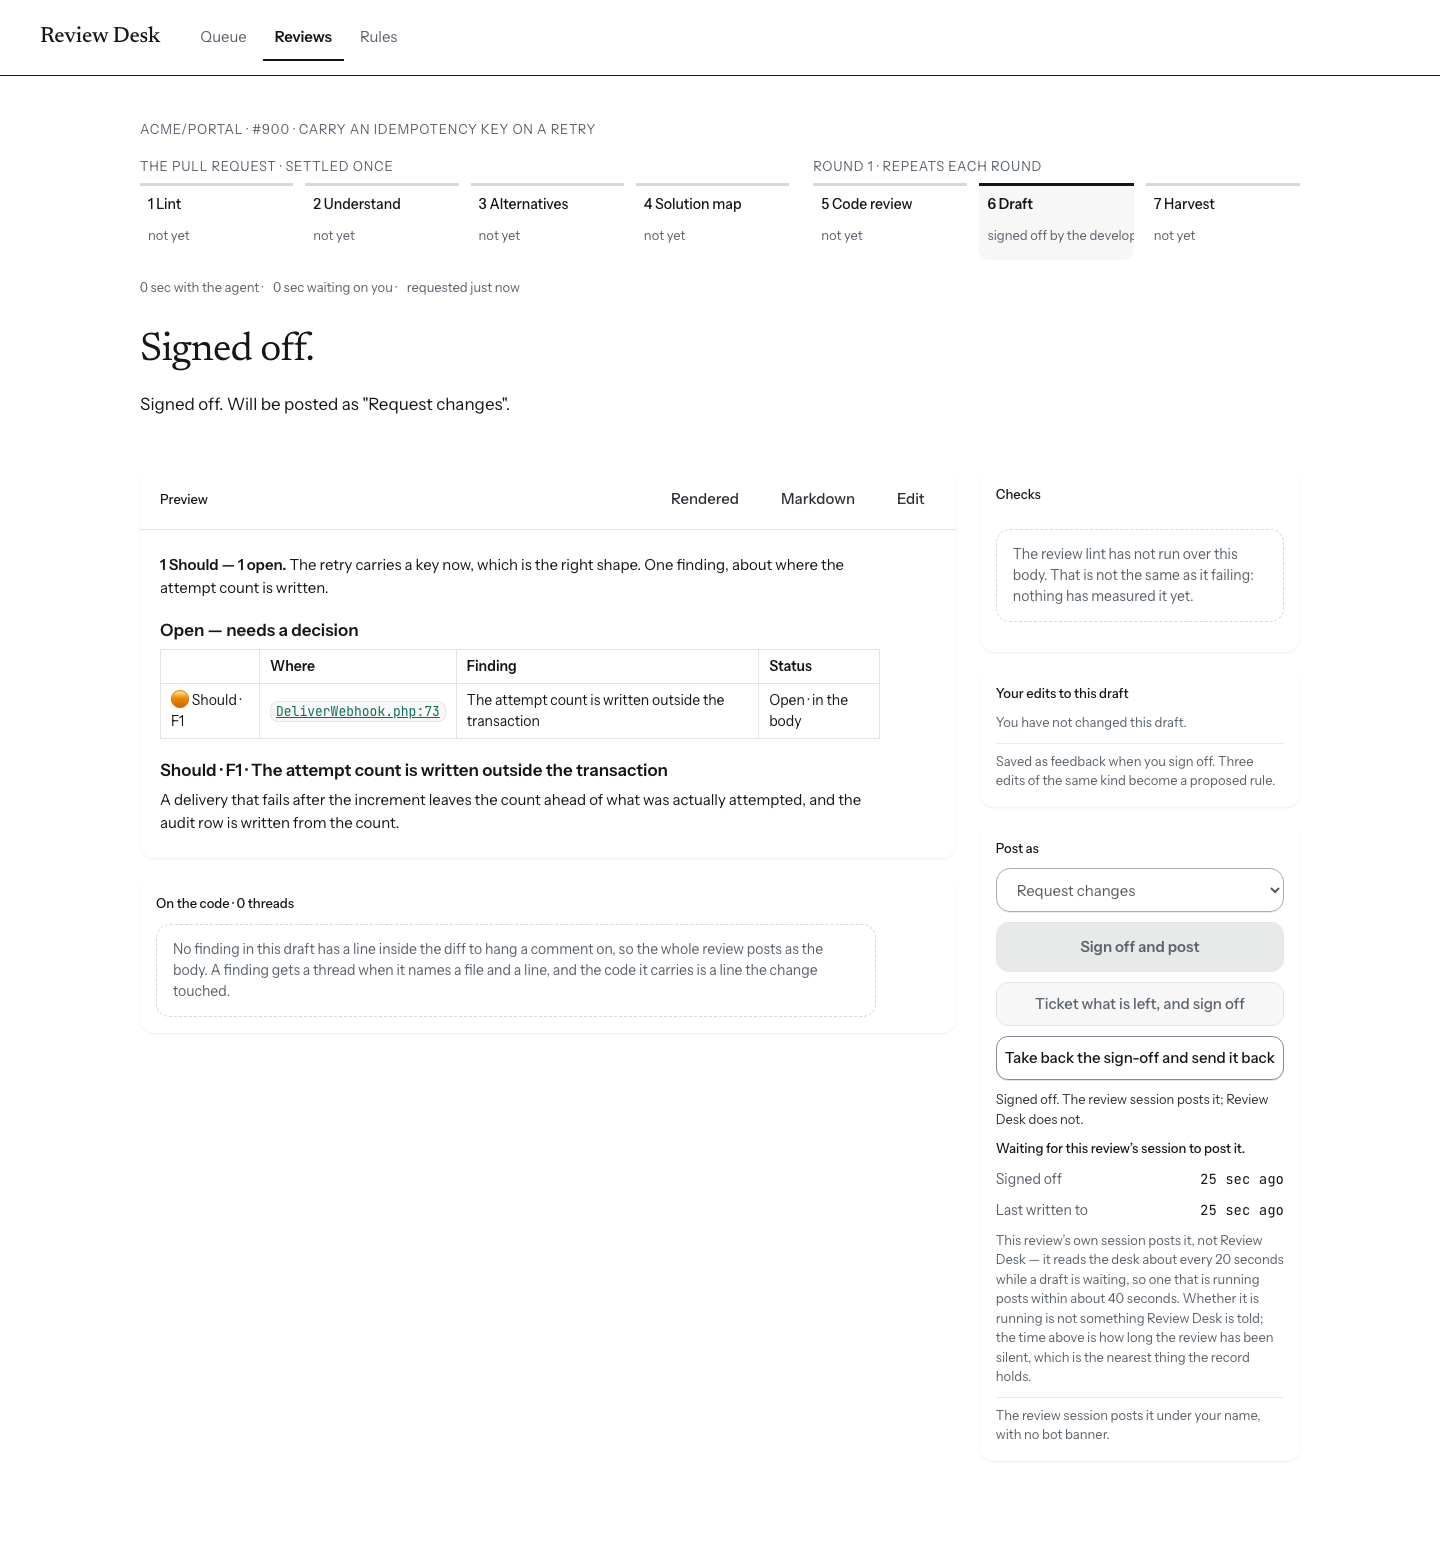
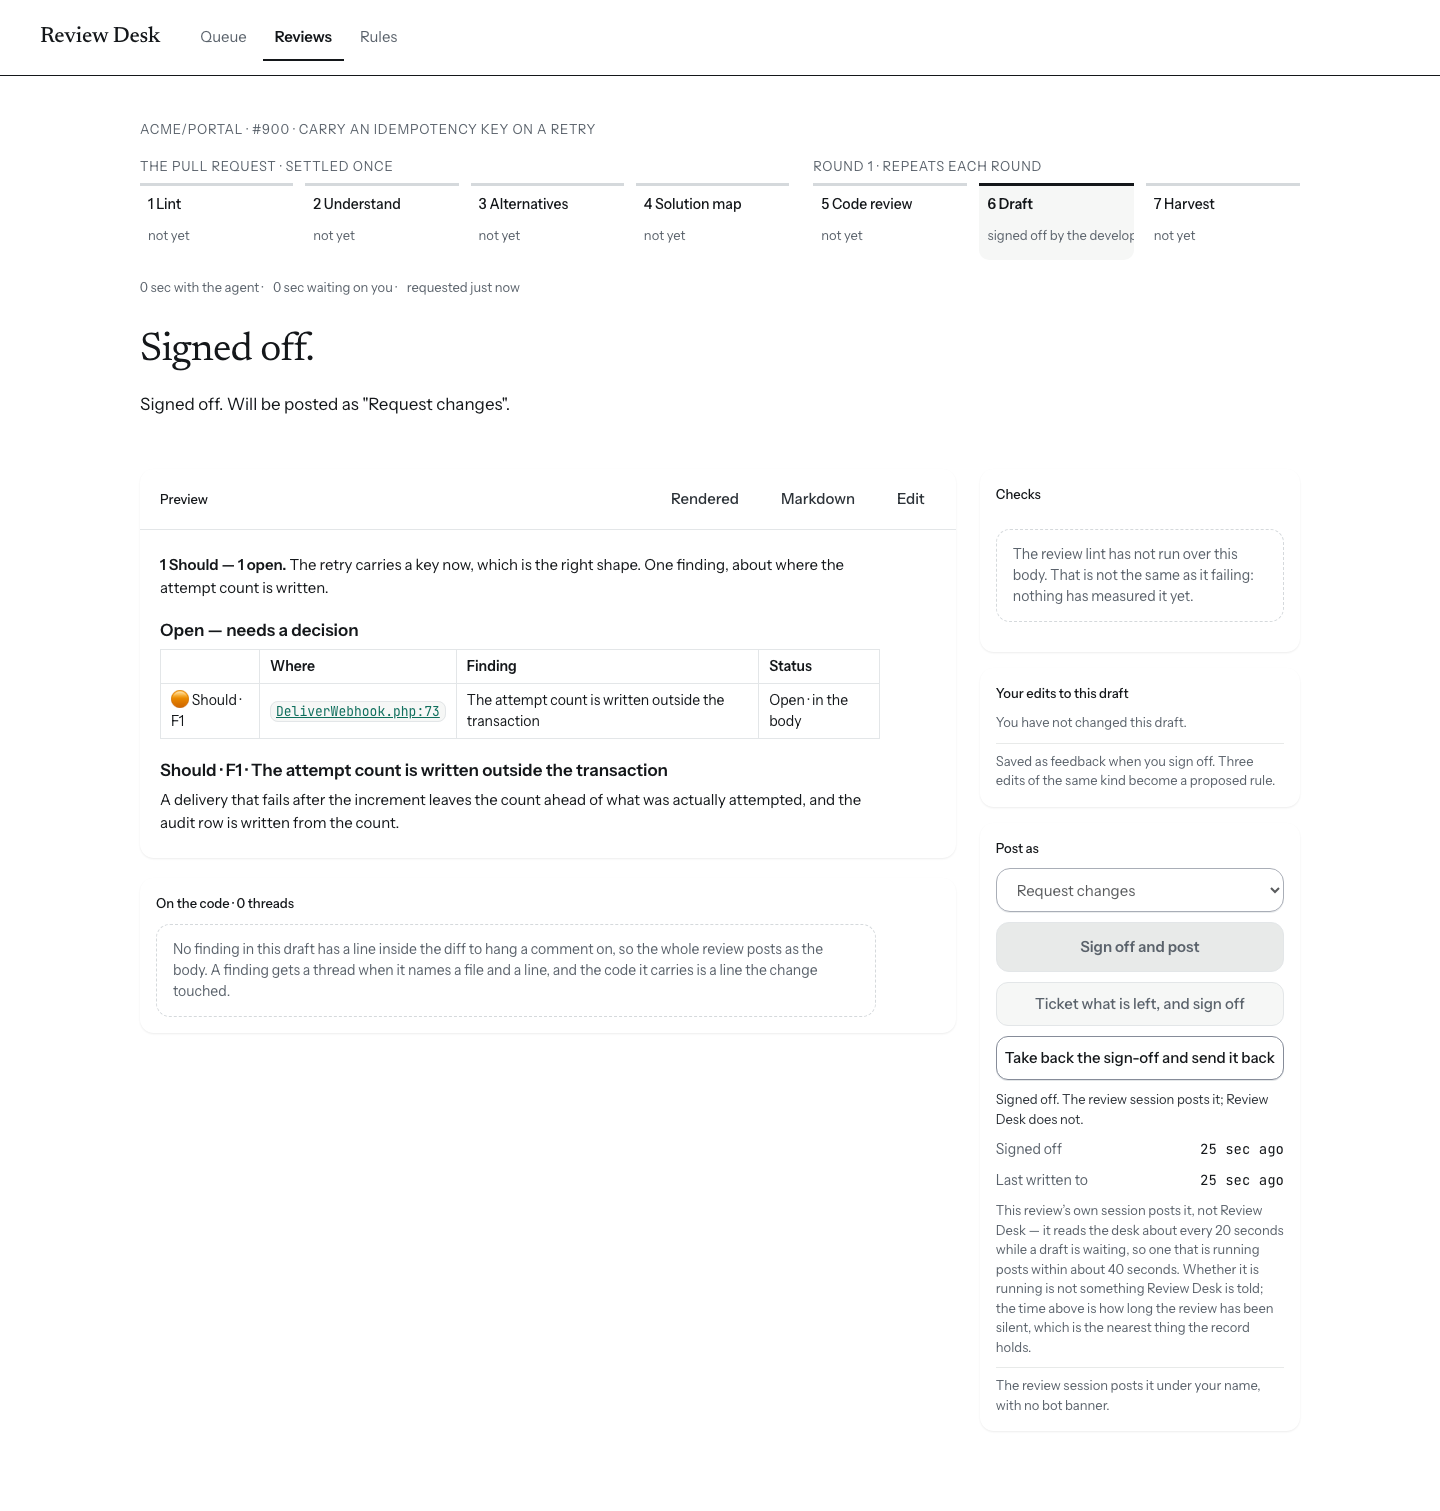
The worst sentence this page could say, and it could say it [DEV-932]
**Stop `review-desk serve` ten seconds after a sign-off and the page accused
the review session.** A failed read leaves the last good answer on screen —
that is what `resource()` and `DeskState` are for — so the props still said
`approved` however long the server had been gone, while the clock kept
moving. At forty seconds the panel said "nothing has reported it posted in
the 40 sec since you signed off, so the session may not be running. Check the
session that was reviewing this", directly underneath a notice saying Review
Desk was not answering. Review Desk accusing Locus of being down because
Review Desk is down, and sending the developer to the wrong system.

One sentence on this page depends on the record being current rather than
merely present, and it is the one that sends somebody somewhere. It is gated
on that now. The reads carry on while they fail, because that is how the page
recovers, and the sentence comes back the moment one answers and the draft is
still unposted. One window is left and is named in the file: coming back to a
tab hidden across the posting moves the clock before the read it asks for has
answered, so the accusation can render for one round trip — milliseconds on
loopback, and the read closes it.

**And the long wait said its diagnosis twice.** The live region is drawn
whatever the status, and `rd-visually-hidden` only applied while it was empty
— so once it had something to say, "Nothing has reported it posted. The
[…]

diff --git a/web/app/components/PostingWatch.vue b/web/app/components/PostingWatch.vue
@@ -39,6 +39,19 @@ const props = defineProps<{
   lastActivityAt: Instant | null | undefined
   /** `DraftDetail.body_is_stale`: the one signed-off state no session can post. */
   bodyIsStale: boolean
+  /**
+   * Whether the page's last read of this review answered.
+   *
+   * **Only one sentence here depends on it, and it is the one that sends somebody
+   * somewhere.** A failed read leaves the last good answer on screen — `resource()` keeps
+   * it and `DeskState` draws the refusal over the top — so the props still say `approved`
+   * however long the server has been gone, and the clock keeps moving. Without this the
+   * page would say "nothing has reported it posted in the 4 min since you signed off, so
+   * the session may not be running" about a session that is posting away happily, while
+   * the thing it cannot reach is its own server two lines above. Review Desk accusing
+   * Locus of being down because Review Desk is down is the worst sentence on the page.
+   */
+  recordIsCurrent: boolean
 }>()
 
 /** Read the review and its draft again. The page owns the reads; this only asks. */
@@ -200,9 +213,21 @@ const sinceSignOff = computed(() => secondsSince(props.draft.approved_at, now.va
  * reading is at most a second ahead of the stamp and never behind it. A build that ever
  * served this page from another machine would need a reference instant on the wire before
  * this sentence could be trusted.
+ *
+ * **And it needs the record to be current, not merely old.** `recordIsCurrent` is the
+ * other half: a clock that keeps moving over a record that has stopped arriving is the
+ * same false accusation by a different route.
+ *
+ * One window is left, and it is bounded: coming back to a tab hidden across the posting
+ * moves the clock before the read it asks for has answered, so the accusation can render
+ * for one round trip. On loopback that is milliseconds and the read closes it. Closing it
+ * properly would mean holding the clock back until a read lands, which costs the thing
+ * that return was for — being current the moment you look.
  */
 const late = computed(
-  () => waiting.value && (sinceSignOff.value ?? 0) >= POSTED_WITHIN_SECONDS,
+  () => waiting.value
+    && props.recordIsCurrent
+    && (sinceSignOff.value ?? 0) >= POSTED_WITHIN_SECONDS,
 )
 
 /**
@@ -351,10 +376,16 @@ const noAnchorSentence = computed(
       empty, so that it is in the page before there is anything to announce. `role="status"`
       is polite and moves nothing: the developer who pressed the button keeps the focus they
       had, which is what makes this readable rather than an interruption.
+
+      **Always hidden, too, because announcing and printing are different jobs.** Drawn, it
+      said the long wait's diagnosis in bold and the paragraph four lines below said it
+      again — "nothing has reported it posted … may not be running", twice in one card, in
+      a picture this branch committed. What a sighted reader needs is here already: the
+      heading, the figures and the sentence under them. What a screen reader needs is to be
+      told when that changed, which is all this is now.
     -->
     <p
-      class="said"
-      :class="{ 'rd-visually-hidden': announcement.length === 0 }"
+      class="rd-visually-hidden"
       role="status"
     >
       {{ announcement }}
@@ -439,19 +470,6 @@ const noAnchorSentence = computed(
  */
 .watch {
   display: contents;
-}
-
-/*
- * The live region. **Not `display: none` while it is empty, however tempting**: a region
- * out of the accessibility tree until the moment it has something to say is a region a
- * screen reader may never announce. `rd-visually-hidden` is the desk's own way of saying
- * that — in the tree, out of the layout — and `contents` above only works because of it,
- * since an empty paragraph is a flex child like any other.
- */
-.said {
-  margin: 0;
-  font-size: 13px;
-  font-weight: 500;
 }
 
 .who,

diff --git a/web/test/posting-watch.nuxt.spec.ts b/web/test/posting-watch.nuxt.spec.ts
@@ -65,6 +65,7 @@ interface Props {
   review: Review
   lastActivityAt: Instant | null | undefined
   bodyIsStale: boolean
+  recordIsCurrent: boolean
 }
 
 function props(over: Partial<Props> = {}): Props {
@@ -73,6 +74,7 @@ function props(over: Partial<Props> = {}): Props {
     review: REVIEW,
     lastActivityAt: SIGNED_OFF_AT,
     bodyIsStale: false,
+    recordIsCurrent: true,
     ...over,
   }
 }
@@ -234,6 +236,30 @@ describe('when nothing has posted it', () => {
      * Repeated a line below as what this one has exceeded, it was one number stated twice.
      */
     expect(page.text().match(/40 seconds/g) ?? []).toHaveLength(1)
+  })
+
+  it('says nothing of the sort while the page cannot read the record', async () => {
+    /*
+     * **The worst sentence this page could say.** A failed read leaves the last good
+     * answer on screen — `DeskState` draws "Review Desk is not answering" over it — and
+     * the clock keeps moving, so without this the panel would accuse the review session of
+     * being down because *Review Desk* is down, and send the developer to the wrong
+     * system.
+     */
+    const page = await watching({ recordIsCurrent: false })
+    await tick(page, POSTED_WITHIN_SECONDS * 3)
+    expect(page.text()).not.toContain('may not be running')
+    expect(announced(page)).toBe('Waiting for this review’s session to post it.')
+
+    /* And it says it the moment the record is current again and still unposted. */
+    await page.setProps({ recordIsCurrent: true })
+    expect(page.text()).toContain('may not be running')
+  })
+
+  it('keeps reading while it cannot read, because that is how it recovers', async () => {
+    const page = await watching({ recordIsCurrent: false })
+    await tick(page, RE_READ_EVERY_SECONDS * 3)
+    expect(reads(page)).toBe(3)
   })
 
   it('keeps reading, because the draft is still signed off and still postable', async () => {
@@ -518,6 +544,28 @@ describe('what a screen reader is told', () => {
     })
     expect(page.find('[role="status"]').exists()).toBe(true)
     expect(announced(page)).toBe('')
+  })
+
+  it('is announced and never printed, so the late state is not said twice', async () => {
+    /*
+     * The region is the only part of this panel a sighted reader does not see. Drawn, it
+     * said the long wait's diagnosis in bold and the paragraph four lines below said it
+     * again — twice in one card, in a picture this branch committed.
+     */
+    const page = await watching()
+    await tick(page, POSTED_WITHIN_SECONDS)
+
+    const region = page.find('[role="status"]')
+    expect(region.classes()).toContain('rd-visually-hidden')
+    expect(region.text()).toContain('may not be running')
+
+    /*
+     * The phrase is in the page twice and that is right — once for the ear, once for the
+     * eye. What must not happen twice is the *seen* one, so the region's own words come
+     * out before the count.
+     */
+    const seen = page.text().replace(region.text(), '')
+    expect(seen.split('may not be running')).toHaveLength(2)
   })
 
   it('carries the state and never a figure, so a moving clock is not an interruption', async () => {

diff --git a/web/app/pages/reviews/[id]/draft.vue b/web/app/pages/reviews/[id]/draft.vue
@@ -188,6 +188,37 @@ async function reread() {
   await Promise.all([detail.refresh(), review.refresh()])
 }
 
+/**
+ * Whether the page's last read of this review answered.
+ *
+ * `PostingWatch` needs it for one sentence — the one that says the session may not be
+ * running — because a failed read leaves the last good answer on screen and the clock
+ * keeps moving over it. A server that stopped after the sign-off would otherwise have the
+ * page accusing the session, under a notice saying Review Desk is not answering.
+ */
+const recordIsCurrent = computed(
+  () => detail.error.value == null && review.error.value == null,
+)
+
+/**
+ * A notice says what a write did, and stops being true when the record moves on.
+ *
+ * **Nothing on this page could go stale under a notice until now.** The page read once, so
+ * "Signed off. The review session posts it; Review Desk does not." stood until the next
+ * write. It re-reads on a timer now, so the panel flips to "Posted" underneath that
+ * sentence and the page says two things about one draft — the second of them in the
+ * present tense about something that has already happened.
+ *
+ * The write's own notice survives its own write: `approveDraft` awaits the refresh before
+ * `said()` sets it, so the status has already moved by the time the notice is written.
+ */
+watch(
+  () => detail.data.value?.draft.status,
+  (status, was) => {
+    if (was !== undefined && status !== was) notice.value = null
+  },
+)
+
 async function fileTicket() {
   const data = detail.data.value
   if (!data) return
@@ -757,6 +788,7 @@ function ofFigure(value: number | null | undefined, of: number | null | undefine
                       :review="data.review"
                       :last-activity-at="review.data.value?.timings.last_activity_at"
                       :body-is-stale="data.body_is_stale"
+                      :record-is-current="recordIsCurrent"
                       @refresh="reread"
                     />
                     <p class="rd-meta foot">

diff --git a/web/e2e/review-desk.spec.ts b/web/e2e/review-desk.spec.ts
@@ -3197,6 +3197,14 @@ test.describe('the draft page after a sign-off', () => {
     /* The heading and the sentence under it followed, which is the rest of the page. */
     await expect(page.getByRole('heading', { name: 'Posted.' })).toBeVisible()
 
+    /*
+     * **And the sign-off's own notice is gone.** "Signed off. The review session posts it"
+     * is what the write said, in the present tense, and it stood until the next write
+     * because nothing on this page used to move underneath it. The panel flips now, so a
+     * notice left in place would have the page saying two things about one draft.
+     */
+    await expect(page.getByText('Signed off. The review session posts it')).toHaveCount(0)
+
     const stayed = await page.evaluate(
       () => (window as unknown as { postingWatchStayed?: boolean }).postingWatchStayed,
     )
